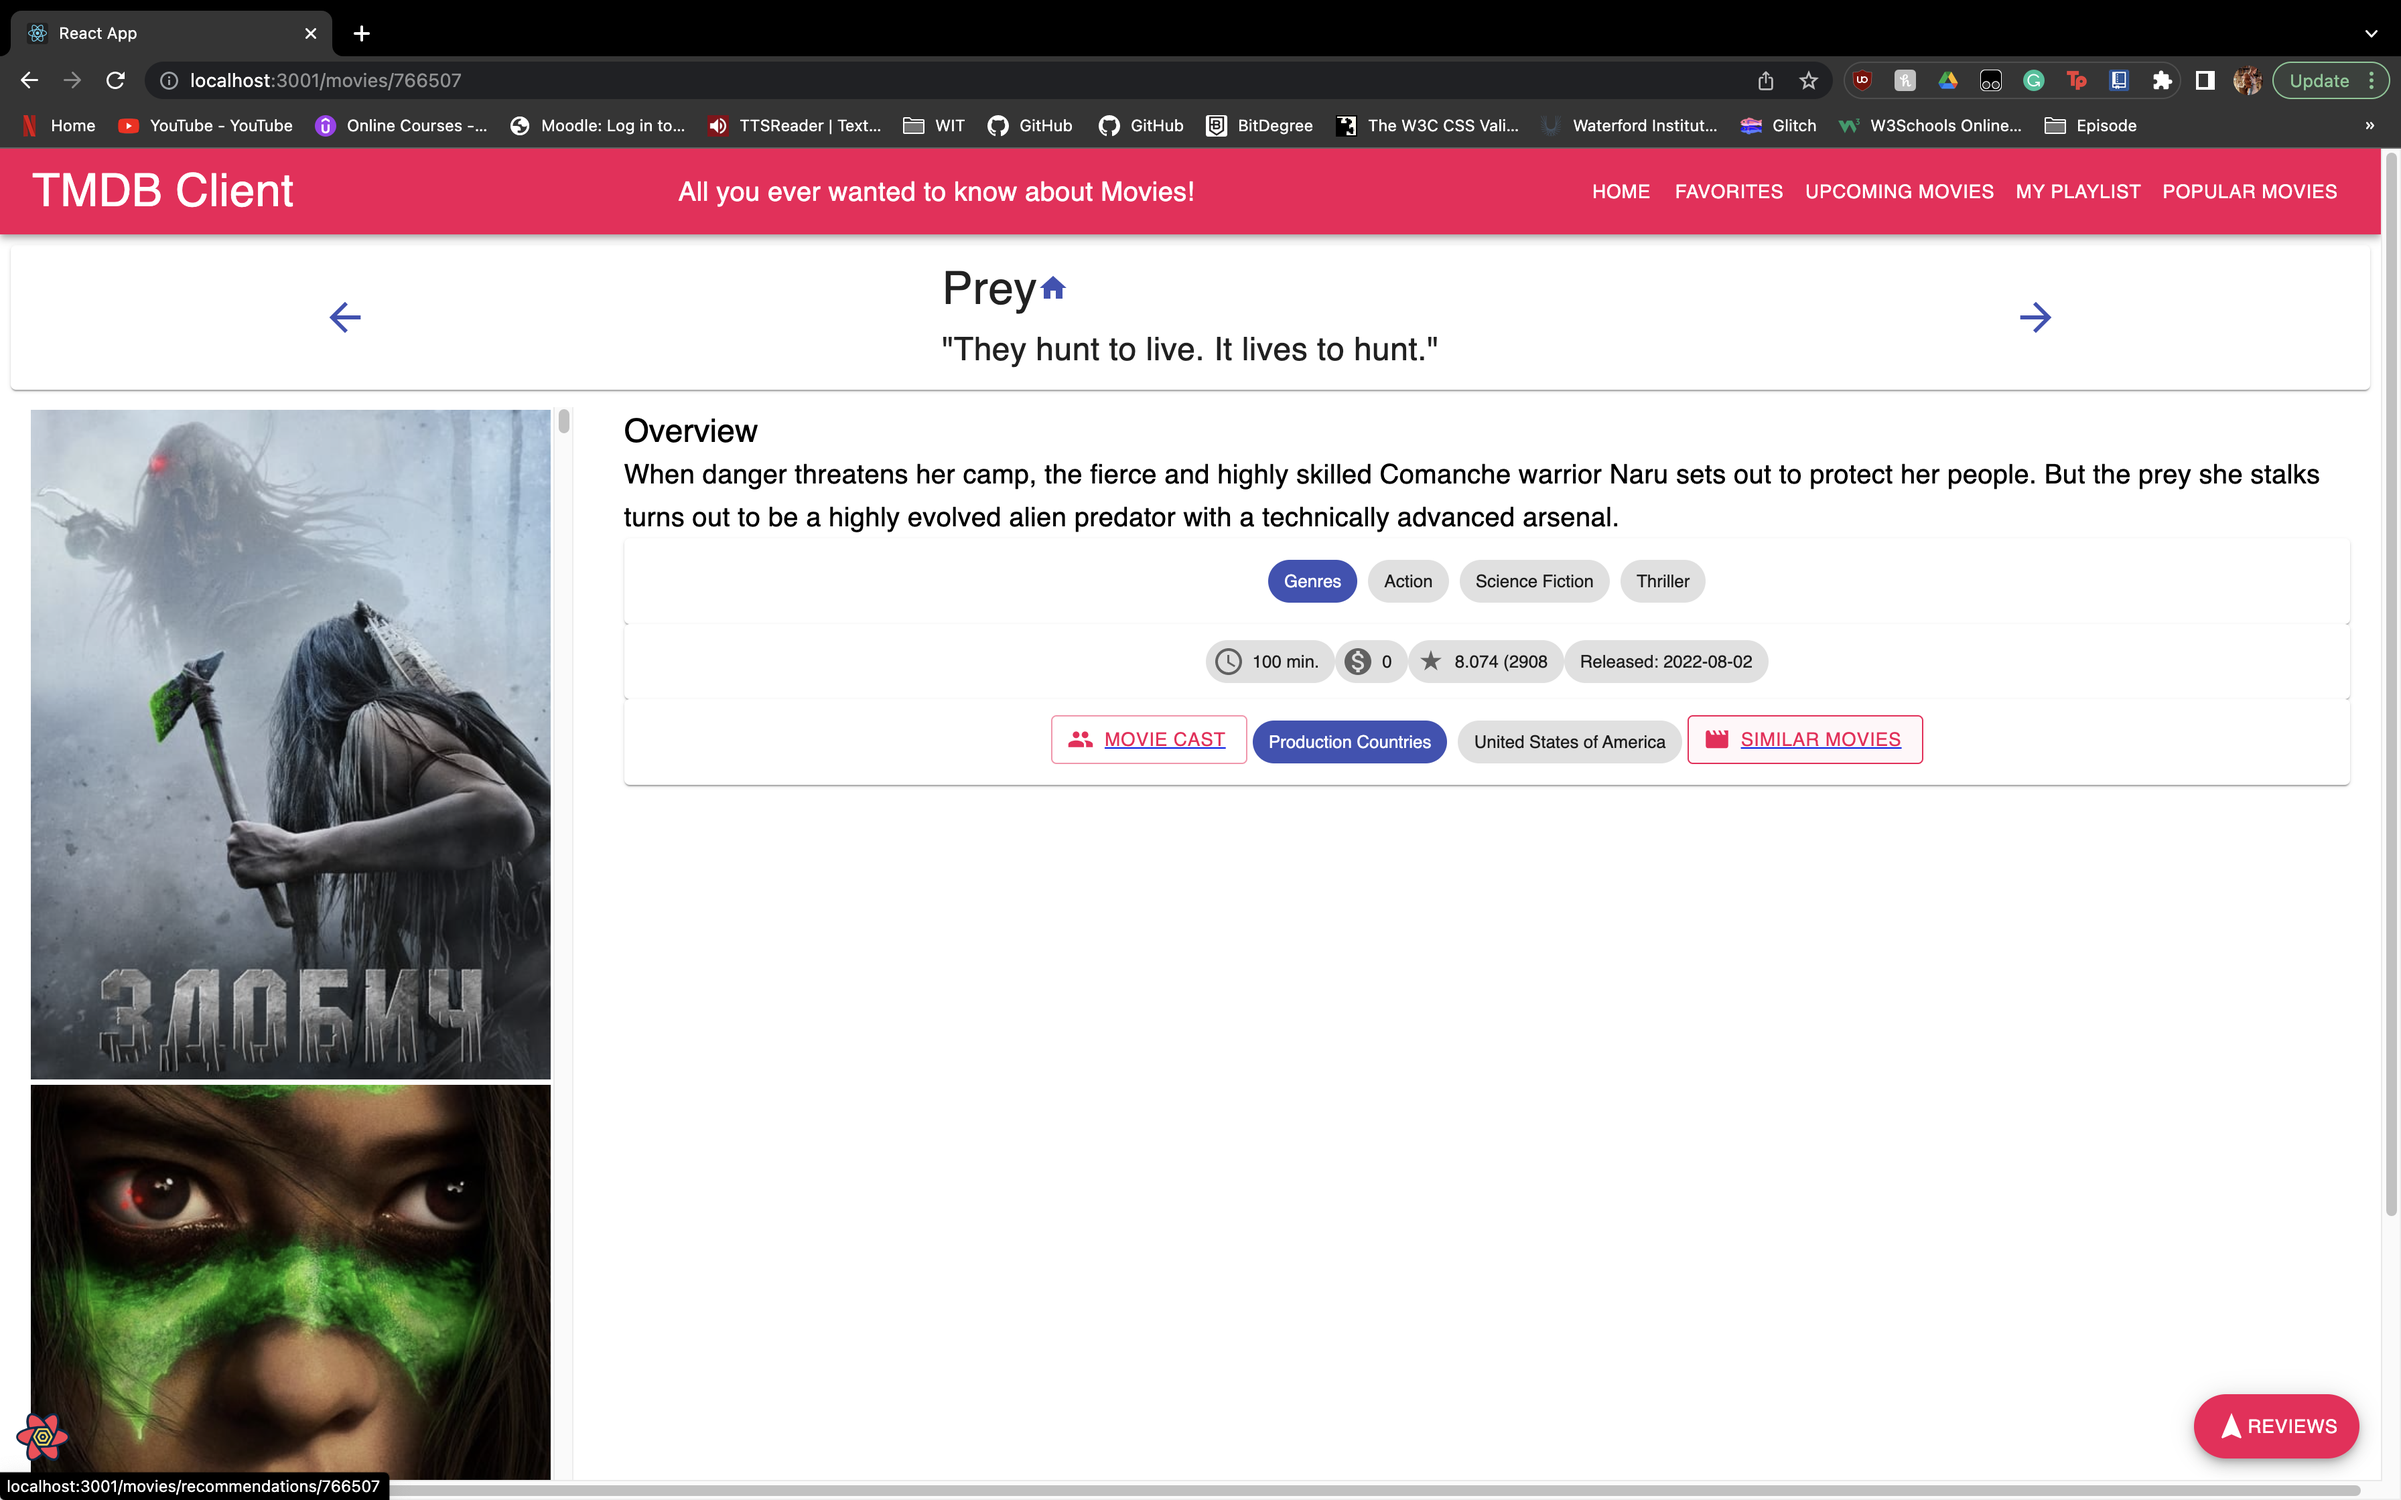
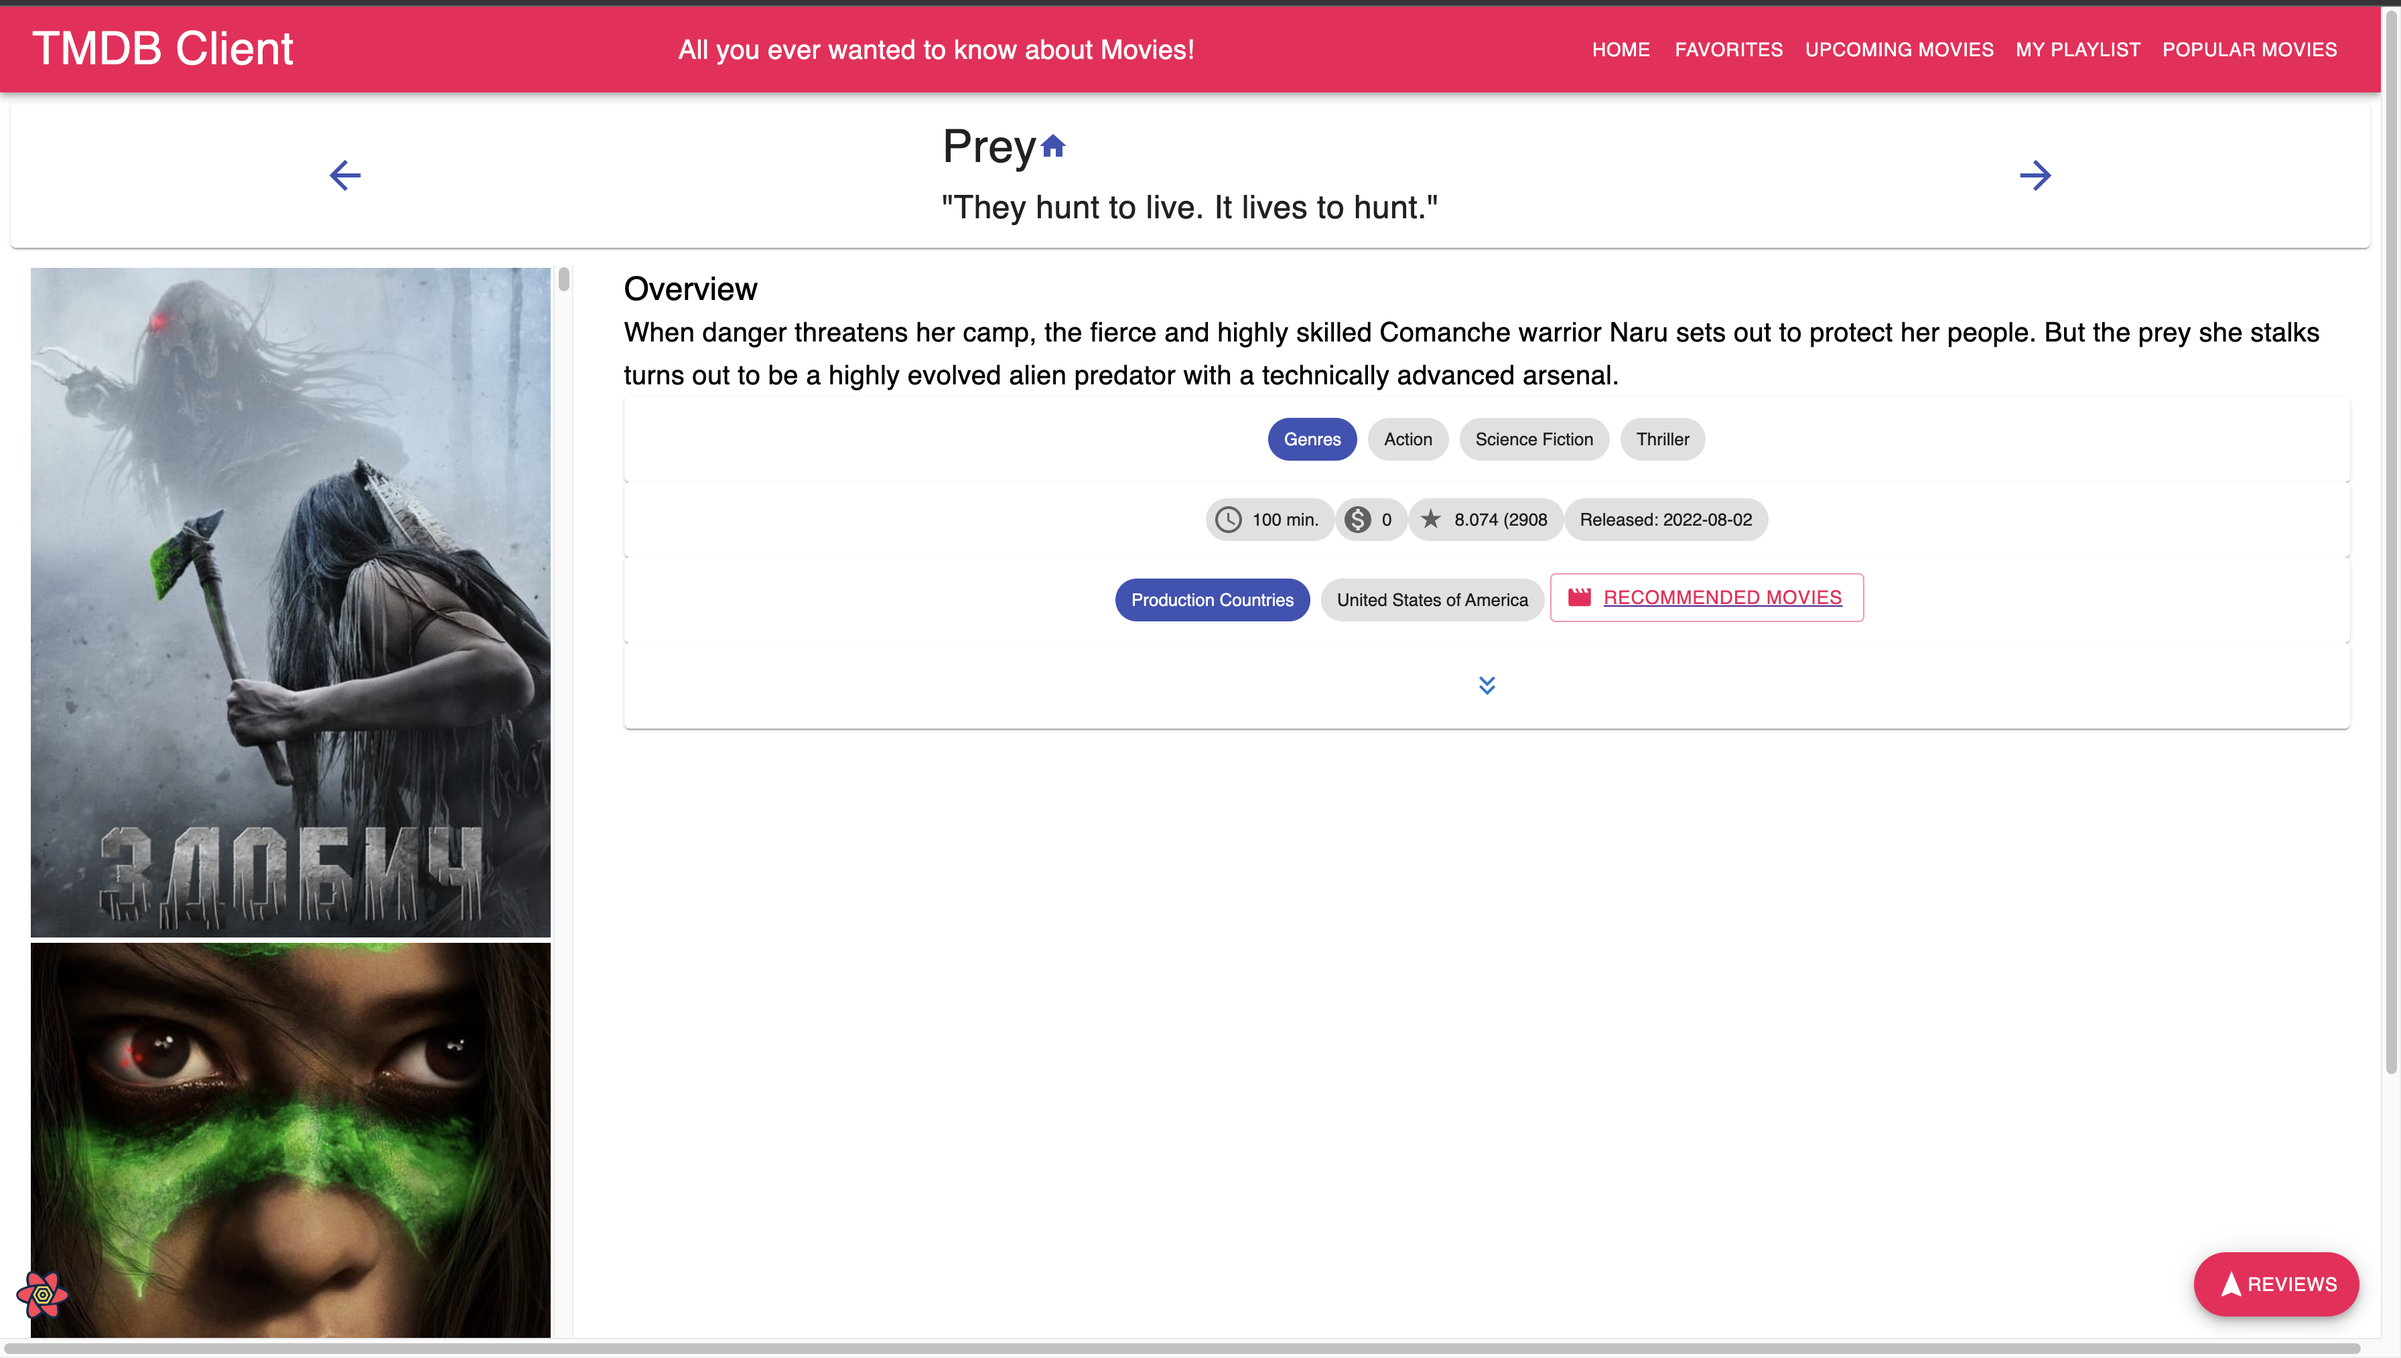
Updated the Cast section but moved it into the more info of each movie. It worksgit add -A

Changed region(s): [[0.0, 0.0, 1.0, 1.0], [0.9062, 0.9009, 0.9688, 0.9941]]

diff --git a/src/components/castCard/index.js b/src/components/castCard/index.js
@@ -16,7 +16,7 @@ import Grid from "@material-ui/core/Grid";
 import img from '../../images/film-poster-placeholder.png';
 // import { Link } from "react-router-dom";
 // import Avatar from "@material-ui/core/Avatar";
-import { CastContext } from "../../contexts/castContext";
+
 
 const useStyles = makeStyles({
   card: { maxWidth: 345 },
@@ -26,35 +26,8 @@ const useStyles = makeStyles({
   },
 });
 
-export default function CastCard({ cast, action}) {
+export default function CastCard({ cast}) {
   const classes = useStyles();
-  const { favorites, addToFavorites } = useContext(CastContext);
-  const { playlist, addToPlaylist } = useContext(CastContext);
-
-  if (favorites.find((id) => id === cast.id)) {
-    cast.favorite = true;
-  } else {
-    cast.favorite = false
-  }
-
-  if (playlist.find((id) => id === cast.id)) {
-    cast.playlist = true;
-  } else {
-    cast.playlist = false
-  }
-
-  const handleAddToFavorite = (e) => {
-    e.preventDefault();
-    addToFavorites(cast);
-
-  const handleAddToPlaylist = (e) => {
-    e.preventDefault();
-    addToPlaylist(cast);
-  };
-
-}
-
-
 
   return (
     <Card className={classes.card}>
@@ -62,7 +35,7 @@ export default function CastCard({ cast, action}) {
       className={classes.header}
       title={
         <Typography variant="h5" component="p">
-          {cast.name}{" "}
+          {cast.original_name}{" "}
         </Typography>
       }
     />
@@ -75,42 +48,30 @@ export default function CastCard({ cast, action}) {
         }
       />
       <CardContent>
-        <Grid container>
-          <Grid item xs={6}>
+        <Grid container rowSpacing={1} columnSpacing={{ xs: 1, sm: 2, md: 3 }}>
+           <Grid item xs={6}>
            <Typography variant="h6" component="p">
-             Biography
-           </Typography>
-           <Typography variant="h6" component="p">
-             {cast.biography} 
+             {cast.name} 
            </Typography>
           </Grid>
-          <Grid item xs={6}>
-            <Typography variant="h6" component="p">
-              <CalendarIcon fontSize="small" />
-              {cast.birthday} 
-            </Typography>
-          </Grid>
-          <Grid item xs={6}>
+            <Grid item xs={6}>
             <Typography variant="h6" component="p">
               <StarRateIcon fontSize="small" />
               {"  "} {cast.popularity}{" "}
             </Typography>
-          </Grid>
-          <Grid item xs={6}>
+            </Grid>
+            <Grid item xs={6}>
             <Typography variant="h6" component="p">
-              {cast.place_of_birth} 
+              {cast.character} 
             </Typography>
           </Grid>
           <Grid item xs={6}>
             <Typography variant="h6" component="p">
               {cast.known_for_department} 
             </Typography>
-          </Grid>
+            </Grid>
         </Grid>
       </CardContent>
-      <CardActions disableSpacing>
-        {action(cast)}
-      </CardActions>
     </Card>
   );
 }

diff --git a/src/pages/castPage.js b/src/pages/castPage.js
@@ -1,14 +1,15 @@
-import React, { useState } from "react";
-import PageTemplate from '../components/templateMovieListPage';
+import React from "react";
+import Cast from "../components/castCard";
 import { useQuery } from 'react-query';
 import Spinner from '../components/spinner';
 import { getCast } from "../api/tmdb-api";
-import AddToPlaylistIcon from "../components/cardIcons/playlistAdd";
-import { Pagination } from '@mui/material';
+import Grid from "@material-ui/core/Grid";
 
-const CastPage = (props) => {
-  const [page, setPage] = useState(1);
-  const {  data, error, isLoading, isError }  = useQuery(["cast", page] , getCast)
+
+
+const CastPage = ({movie}) => {
+//   const { id } = props.match.params;
+  const {  data, error, isLoading, isError }  = useQuery(["cast", { id: movie.id}] , getCast);
 
   if (isLoading) {
         return <Spinner />
@@ -17,31 +18,15 @@ const CastPage = (props) => {
       if (isError) {
         return <h1>{error.message}</h1>
       }  
-      const movies = data.results;
-      const totalPages = data.total_pages;
+      const cast = data.cast;
 
-      // Redundant, but necessary to avoid app crashing.
-      const playlist = movies.filter(m => m.playlists)
-      localStorage.setItem('playlist', JSON.stringify(playlist))
-     const addToPlaylist = (movieId) => true 
+      let castList = cast.map((c) => (
+        <Grid key={c.id}>
+          <Cast key={c.id} cast={c}/>
+        </Grid>
+      ));
     
-      return (
-        <>
-        <PageTemplate
-          title="Upcoming Movies"
-          movies={movies}
-          action={(movie) => {
-            return (
-
-                <AddToPlaylistIcon movie={movie} />
-               
-            );
-          }}
-        />
-        <Pagination hidePrevButton hideNextButton size="large" count={totalPages} page={page} onChange={(event, newPageNum) => setPage(newPageNum)} />
-        </>
-    );
+      return castList;
     };
 
 export default CastPage;
-

diff --git a/src/components/movieDetails/index.js b/src/components/movieDetails/index.js
@@ -5,8 +5,8 @@ import AccessTimeIcon from "@material-ui/icons/AccessTime";
 import MonetizationIcon from "@material-ui/icons/MonetizationOn";
 import StarRate from "@material-ui/icons/StarRate";
 import Button from "@material-ui/core/Button";
+import IconButton from '@mui/material/IconButton';
 import MovieIcon from "@material-ui/icons/Movie";
-import GroupIcon from "@material-ui/icons/Group";
 import NavigationIcon from "@material-ui/icons/Navigation";
 import Fab from "@material-ui/core/Fab";
 import Typography from "@material-ui/core/Typography";
@@ -14,6 +14,7 @@ import { makeStyles } from "@material-ui/core/styles";
 import Drawer from "@material-ui/core/Drawer";
 import MovieReviews from "../movieReviews";
 import { Link } from "react-router-dom";
+import KeyboardDoubleArrowDownIcon from '@mui/icons-material/KeyboardDoubleArrowDown';
 // import RecommendationsPage from "../pages/recommendationsPage";
 
 
@@ -75,12 +76,6 @@ const MovieDetails = ({ movie }) => {  // Don't miss this!
       </Paper>
 
       <Paper component="ul" className={classes.root}>
-        {/* CAST ID INSTEAD OF MOVIE */}
-      <Link to={`/movies/cast/:id`}> 
-        <Button variant="outlined" startIcon={<GroupIcon />} color="secondary">
-          Movie Cast
-        </Button>
-      </Link>
         <li>
           <Chip label="Production Countries" className={classes.chip} color="primary" />
         </li>
@@ -94,6 +89,12 @@ const MovieDetails = ({ movie }) => {  // Don't miss this!
           Recommended Movies
        </Button>
        </Link>
+        </Paper>
+
+        <Paper component="ul" className={classes.root}>
+        <IconButton aria-label="cast">
+          <KeyboardDoubleArrowDownIcon label="cast" color="primary" />
+        </IconButton>
         </Paper>
 
 

diff --git a/src/api/tmdb-api.js b/src/api/tmdb-api.js
@@ -105,10 +105,10 @@ export const getMovie = (args) => {
           };
 
   export const getCast = (args) => {
-    const [, idPart, page] = args.queryKey;
+    const [, idPart] = args.queryKey;
     const { id } = idPart;
     return fetch(
-       `https://api.themoviedb.org/3/movie/${id}/credits?api_key=${process.env.REACT_APP_TMDB_KEY}&language=en-US&page=${page}`
+       `https://api.themoviedb.org/3/movie/${id}/credits?api_key=${process.env.REACT_APP_TMDB_KEY}&language=en-US`
         ).then((response) => {
           if (!response.ok) {
             throw new Error(response.json().message);

diff --git a/src/pages/movieDetailsPage.js b/src/pages/movieDetailsPage.js
@@ -1,6 +1,7 @@
 import React, { useState, useEffect } from "react";
 import { withRouter } from "react-router-dom";
 import MovieDetails from "../components/movieDetails";
+import Cast from "../pages/castPage";
 import PageTemplate from "../components/templateMoviePage";
 import { getMovie } from '../api/tmdb-api'
 import { useQuery } from "react-query";
@@ -28,6 +29,7 @@ const MovieDetailsPage = (props) => {
         <>
           <PageTemplate movie={movie}>
             <MovieDetails movie={movie} />
+            <Cast movie={movie} />
           </PageTemplate>
         </>
       ) : (

diff --git a/src/index.js b/src/index.js
@@ -47,9 +47,7 @@ const App = () => {
         <Route exact path="/movies/playlist" component={PlaylistMoviesPage} />
         {/* New */}
         <Route exact path="/movies/popular" component={PopularMoviesPage} /> 
-        <Route exact path="/movies/cast/:id" component={CastPage} />
         <Route path="/movies/recommendations/:id" component={RecommendationsPage} />
-
         <Route path="/movies/:id" component={MoviePage} />
         <Route exact path="/" component={HomePage} />
         <Redirect from="*" to="/" />

diff --git a/src/components/siteHeader/index.js b/src/components/siteHeader/index.js
@@ -33,7 +33,6 @@ const SiteHeader = ( { history }) => {
     { label: "Upcoming Movies", path: "/movies/upcoming" },
     { label: "My Playlist", path: "/movies/playlist" },
     { label: "Popular Movies", path: "/movies/popular" },
-    { label: "Cast", path: "/movies/cast" },
   ];
 
   const handleMenuSelect = (pageURL) => {

diff --git a/README.md b/README.md
@@ -80,8 +80,6 @@ After cloning the repo, :-
 
 7. Movie Cast
 
-![ ](src/images/more_info.png)
-
 <!-- NEED TO UPDATE -->
 ![ ](src/images/Cast.png)
 
